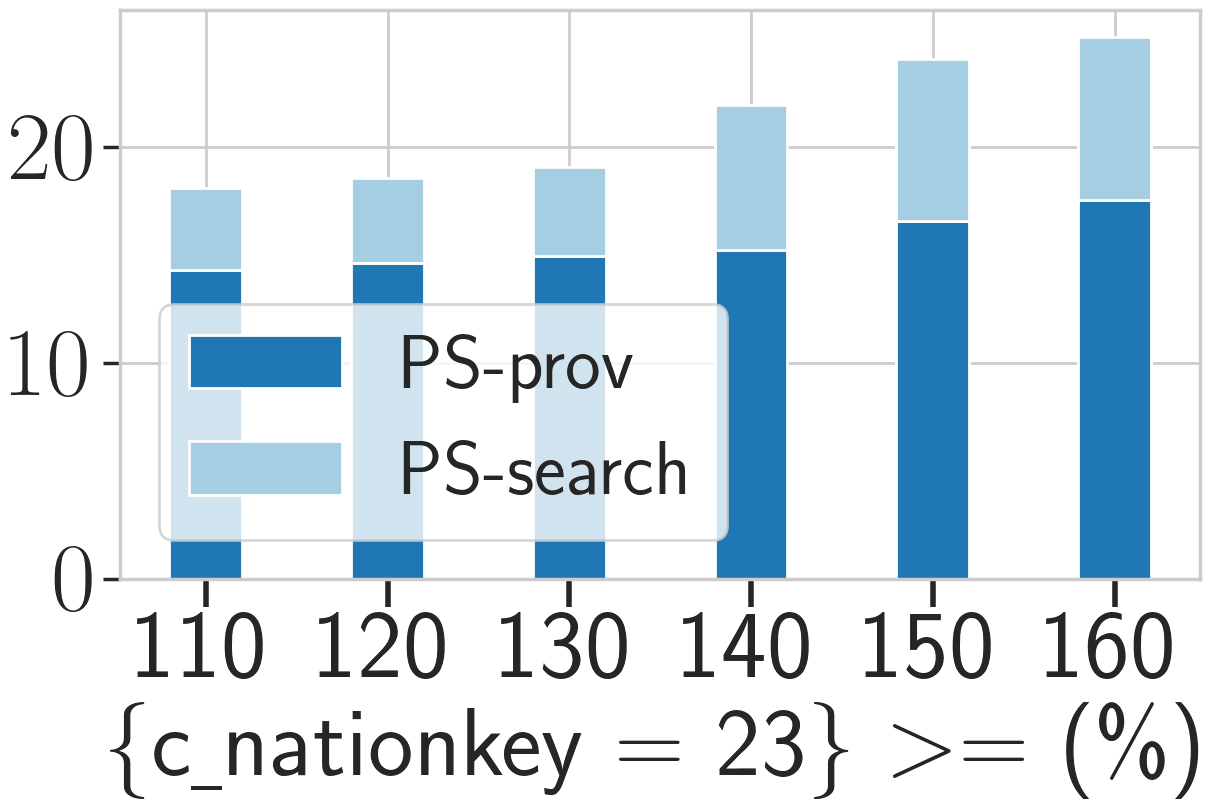
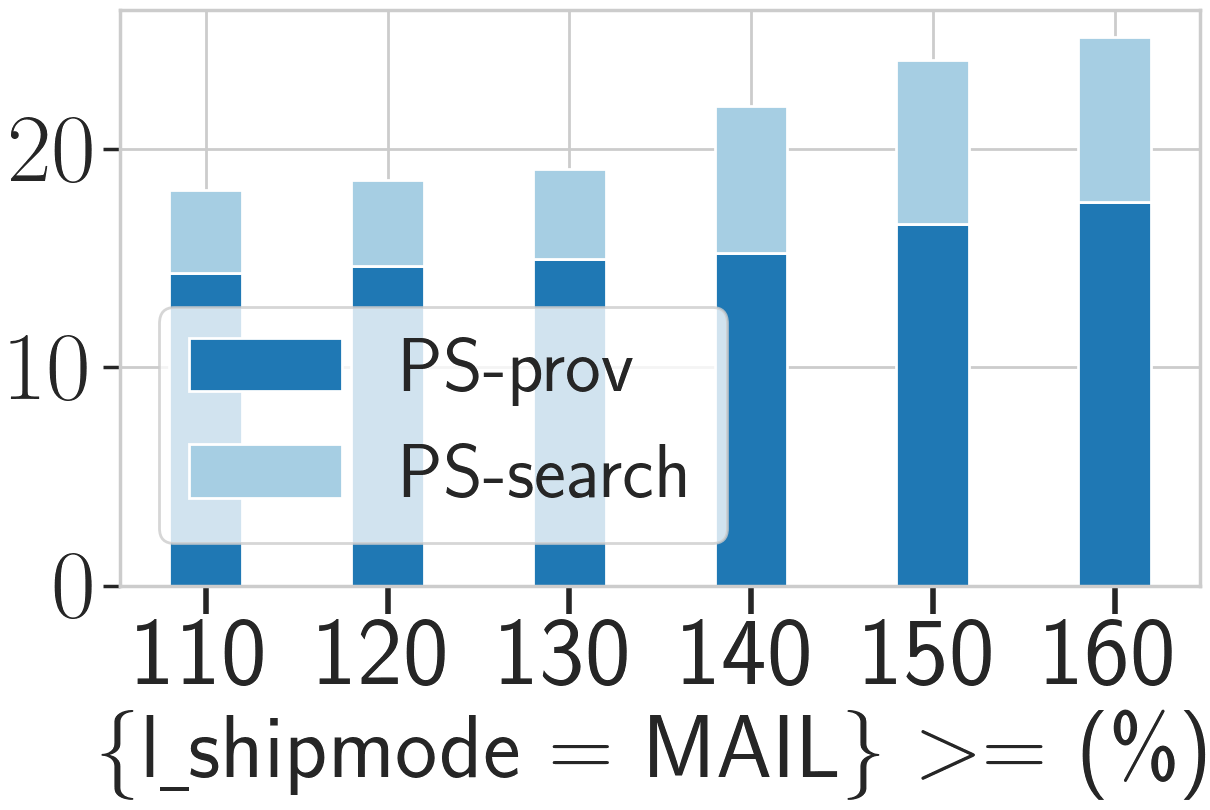
fix fig

diff --git a/Experiment/TPCH/1G/constraint_change/q3_relax/fig.py b/Experiment/TPCH/1G/constraint_change/q3_relax/fig.py
@@ -83,7 +83,7 @@ def run(query, size, constraint):
     plt.xticks(np.arange(0, 6), x_list, rotation=0, fontsize=70)
     plt.yticks(fontsize=70, weight='bold')
 
-    plt.xlabel(r'\{c\underline{ }nationkey = 23\} $>=$ (\%)')
+    plt.xlabel(r'\{l\underline{ }shipmode = MAIL\} $>=$ (\%)', fontsize=65, weight='bold')
 
     plt.legend(loc='upper left', bbox_to_anchor=(0, 0.55), fontsize=55)
     # plt.legend(loc="best", fontsize=55)
